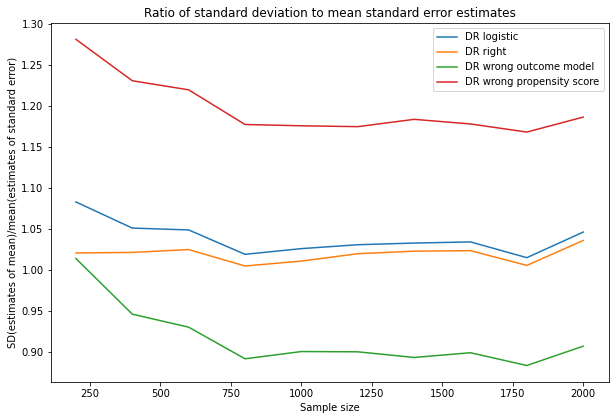
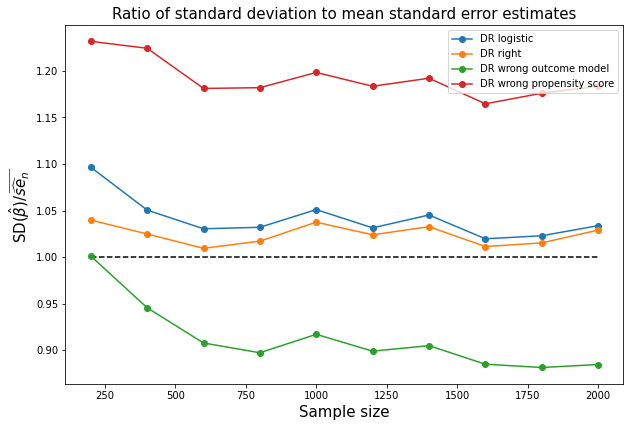
Modifying plots of parametric settings; modifying code for random forest

diff --git a/randomforest_DR.py b/randomforest_DR.py
@@ -22,257 +22,17 @@ Y =np.random.binomial(1, expit(0.2*A-W1 + 2*np.multiply(W1,W2)), 1000000)
 
 B_true = np.mean(expit(0.2-W1+ 2*np.multiply(W1,W2)))
 
-'''
-def RF_crossval(Xtrain, ytrain, Xtest):
-    skf = StratifiedKFold(n_splits=5, shuffle = True, random_state = 999)
-    
-    #Fit it to the train set
-    cv=skf.split(Xtrain, ytrain)
-    
-    # Choose the values of the number of decision trees, their depth and 
-    # the maximum number of descriptors (features) randomly chosen at each split that I want to test out with GridSearchCV
-    n_estimators = np.arange(100,1000,100)
-    max_depth = np.arange(10,30,5)
-    max_features = [2]
-    
-    # I summarise these values into a grid
-    hyperF = dict(n_estimators = n_estimators, max_depth = max_depth,  
-                  max_features = max_features)
-    
-    # Set GridSearch CV with model to tune as RFC, grid of hyperparameters, cross validation method as
-    # stratified K fold, and the scoring method as the  the accuracy of your validation predictions
-    gridF = GridSearchCV(RandomForestClassifier(), hyperF, cv = cv, scoring = 'accuracy', verbose = 1, 
-                          n_jobs = -1)
-    gridF.fit(Xtrain, ytrain)
-    output =  gridF.predict_proba(Xtest)[:,1]
-    output[np.abs(output) < 0.000001] = 0.000001
-    return output
-
-
-def DR_logit_forest_ps(Y, W, A, n):
-    W0 = 1.0*W
-    W0[:,1] = np.multiply(W0[:,0],W0[:,1])
-    
-
-    X_train_ps, _, y_train_ps, _ = train_test_split(W0,A)
-
-    
-    ps = RF_crossval(X_train_ps,y_train_ps,W0)
-    
-    o_r = LogisticRegression().fit(W0[A==1,:],Y[A==1]).predict_proba(W0)[:, 1]
-    
-    DR = np.mean(A*Y*(1/ps)
-                   + (np.ones(n)-A*(1/ps))*o_r)
-    se = np.sqrt(np.sum(np.square(A*(Y-o_r)*(1/ps)+o_r - DR*np.ones(n))))/n
-    return DR, se
-
-def DR_logit_forest_om(Y, W, A, n):
-    W0 = 1.0*W
-    W0[:,1] = np.multiply(W0[:,0],W0[:,1])
-    
-    X_train_om, _, y_train_om, _ = train_test_split(W0[A==1],Y[A==1])
-
-    
-    ps = LogisticRegression().fit(W0, A).predict_proba(W0)[:,1]
-    
-    o_r = RF_crossval(X_train_om,y_train_om,W0)
-    
-    DR = np.mean(A*Y*(1/ps)
-                   + (np.ones(n)-A*(1/ps))*o_r)
-    se = np.sqrt(np.sum(np.square(A*(Y-o_r)*(1/ps)+o_r - DR*np.ones(n))))/n
-    return DR, se
-
-def DR_right(Y,W,A, n):
-    ps = expit(-W[:,0] + 2*np.multiply(W[:,0],W[:,1]))
-    o_r = expit(0.2-W[:,0]+ 2*np.multiply(W[:,0],W[:,1]))
-    
-    DR = np.mean(A*Y*(1/ps)
-                   + (np.ones(n)-A*(1/ps))*o_r)
-    se = np.sqrt(np.sum(np.square(A*(Y-o_r)*(1/ps)+o_r - DR*np.ones(n))))/n
-    return DR, se
-
-def DR_forest_right(Y, W, A, n):
-    W0 = 1.0*W
-    W0[:,1] = np.multiply(W0[:,0],W0[:,1])
-    
-
-    X_train_ps, _, y_train_ps, _ = train_test_split(W0,A)
-
-    ps = RF_crossval(X_train_ps,y_train_ps,W0)
-    
-    X_train_om, _, y_train_om, _ = train_test_split(W0[A==1],Y[A==1])
-    o_r = RF_crossval(X_train_om,y_train_om,W0)
-    
-    DR = np.mean(A*Y*(1/ps)
-                   + (np.ones(n)-A*(1/ps))*o_r)
-    se = np.sqrt(np.sum(np.square(A*(Y-o_r)*(1/ps)+o_r - DR*np.ones(n))))/n
-    return DR, se
-
-def DR_wrong_om(Y, W, A, n):
-    W0 = 1.0*W
-    o_r = LogisticRegression().fit(W0[A==1,:],Y[A==1]).predict_proba(W0)[:, 1]
-    
-    W0[:,1] = np.multiply(W0[:,0],W0[:,1])
-    
-    X_train_ps, _, y_train_ps, _ = train_test_split(W0,A)
-
-    ps = RF_crossval(X_train_ps,y_train_ps,W0)
-    DR = np.mean(A*Y*(1/ps)
-                   + (np.ones(n)-A*(1/ps))*o_r)
-    se = np.sqrt(np.sum(np.square(A*(Y-o_r)*(1/ps)+o_r - DR*np.ones(n))))/n
-    return DR, se
-
-def DR_wrong_ps(Y, W, A, n):
-    W0 = 1.0*W
-    ps = LogisticRegression().fit(W0, A).predict_proba(W0)[:, 1]
-    
-    W0[:,1] = np.multiply(W0[:,0],W0[:,1])
-    X_train_om, _, y_train_om, _ = train_test_split(W0[A==1],Y[A==1])
-    o_r = RF_crossval(X_train_om,y_train_om,W0)
-    
-    DR = np.mean(A*Y*(1/ps)
-                   + (np.ones(n)-A*(1/ps))*o_r)
-    se = np.sqrt(np.sum(np.square(A*(Y-o_r)*(1/ps)+o_r - DR*np.ones(n))))/n
-    return DR, se
-
-def DR_forest_wrong_om(Y, W, A, n):
-    W0 = 1.0*W
-    X_train_om, _, y_train_om, _ = train_test_split(W0[A==1],Y[A==1])
-    o_r = RF_crossval(X_train_om,y_train_om,W0)
-    
-    W0[:,1] = np.multiply(W0[:,0],W0[:,1])
-    X_train_ps, _, y_train_ps, _ = train_test_split(W0,A)
-    
-    ps = RF_crossval(X_train_ps,y_train_ps,W0)
-    
-    
-    DR = np.mean(A*Y*(1/ps)
-                   + (np.ones(n)-A*(1/ps))*o_r)
-    se = np.sqrt(np.sum(np.square(A*(Y-o_r)*(1/ps)+o_r - DR*np.ones(n))))/n
-    return DR, se
-
-def DR_forest_wrong_ps(Y, W, A, n):
-    W0 = 1.0*W
-    
-
-    X_train_ps, _, y_train_ps, _ = train_test_split(W0,A)
-
-    ps = RF_crossval(X_train_ps,y_train_ps,W0)
-    
-    W0[:,1] = np.multiply(W0[:,0],W0[:,1])
-   
-    X_train_om, _, y_train_om, _ = train_test_split(W0[A==1],Y[A==1])
-    
-    o_r = RF_crossval(X_train_om,y_train_om,W0)
-    
-    DR = np.mean(A*Y*(1/ps)
-                   + (np.ones(n)-A*(1/ps))*o_r)
-    se = np.sqrt(np.sum(np.square(A*(Y-o_r)*(1/ps)+o_r - DR*np.ones(n))))/n
-    return DR, se
-
-def DR_forest_wrong(Y, W, A, n):
-    W0 = 1.0*W
-    
-
-    X_train_ps, _, y_train_ps, _ = train_test_split(W0,A)
-
-    ps = RF_crossval(X_train_ps,y_train_ps,W0)
-    
-   
-    X_train_om, _, y_train_om, _ = train_test_split(W0[A==1],Y[A==1])
-
-    o_r = RF_crossval(X_train_om,y_train_om,W0)
-
-    DR = np.mean(A*Y*(1/ps)
-                   + (np.ones(n)-A*(1/ps))*o_r)
-    se = np.sqrt(np.sum(np.square(A*(Y-o_r)*(1/ps)+o_r - DR*np.ones(n))))/n
-    return DR, se
-
-def DR_estimator(Y,W,A,ps,om,n):
-    DR = np.mean(A*Y*(1/ps)
-                   + (np.ones(n)-A*(1/ps))*om)
-    se = np.sqrt(np.sum(np.square(A*(Y-om)*(1/ps)+om - DR*np.ones(n))))/n
-    return DR, se
-'''
-
-N = list(i*200 for i in range(1,6))
-iters = 500
+iters = 2500
+N = [200*i for i in range(1,11)]
 
 estimates = np.zeros((9,iters,len(N)))
-CI = np.zeros((9,iters,len(N)))
-SEs = np.zeros((9,iters,len(N)))
-t = time.time()
-for i in range(iters): 
-    print('Iteration ' + str(i))
-    for j in range(len(N)):
-        W1 = np.random.uniform(-2,2,N[j])
-        W2 = np.random.binomial(1,0.5,N[j])
-        A = 1.0*np.random.binomial(1, expit(-W1 + 2*np.multiply(W1,W2)), N[j])
-        Y = 1.0*np.random.binomial(1, expit(0.2*A-W1 + 2*np.multiply(W1,W2)), N[j])
-        W = np.array([W1,W2]).T
-        
-        W_r = 1.0*W
-        W_r[:,1] = W1*W2
-        
-        ps_log = LogisticRegression().fit(W_r,A).predict_proba(W_r)[:,1]
-        ps_f = RF_crossval(W_r, A, W_r)
-        ps_w_log = LogisticRegression().fit(W,A).predict_proba(W)[:,1]
-        ps_w_f = RF_crossval(W, A, W)
-        ps_r = expit(-W1 + 2*np.multiply(W1,W2))
-        
-        om_log = LogisticRegression().fit(W_r[A==1],Y[A==1]).predict_proba(W_r)[:,1]
-        om_f = RF_crossval(W_r[A==1], Y[A==1], W_r)
-        om_w_log = LogisticRegression().fit(W[A==1],Y[A==1]).predict_proba(W)[:,1]
-        om_w_f = RF_crossval(W[A==1],Y[A==1], W)
-        om_r = expit(0.2-W1 + 2*np.multiply(W1,W2))
-        
-        
-        DR_l_f_om, se_l_f_om = DR_estimator(Y, W, A).fit_regression(ps = ps_log,om = om_f).estimate()
-        DR_l_f_ps, se_l_f_ps =  DR_estimator(Y, W, A).fit_regression(ps = ps_f,om = om_log).estimate()
-        DR_f_r, se_f_r = DR_estimator(Y, W, A).fit_regression(ps = ps_f,om = om_f).estimate()
-        DR_om, se_om = DR_estimator(Y, W, A).fit_regression(ps = ps_f,om = om_w_log).estimate()
-        DR_ps, se_ps = DR_estimator(Y, W, A).fit_regression(ps = ps_w_log,om = om_f).estimate()
-        DR_f_om, se_f_om = DR_estimator(Y, W, A).fit_regression(ps = ps_f,om = om_w_f).estimate()
-        DR_f_ps, se_f_ps = DR_estimator(Y, W, A).fit_regression(ps = ps_w_f,om = om_f).estimate()
-        DR_f_w, se_f_w = DR_estimator(Y, W, A).fit_regression(ps = ps_w_f,om = om_w_f).estimate()
-        DR_r, se_r = DR_estimator(Y, W, A).fit_regression(ps = ps_r,om = om_r).estimate()
-        
-        estimates[0,i,j] = DR_l_f_om
-        estimates[1,i,j] = DR_l_f_ps
-        estimates[2,i,j] = DR_f_r
-        estimates[3,i,j] = DR_om
-        estimates[4,i,j] = DR_ps
-        estimates[5,i,j] = DR_f_om
-        estimates[6,i,j] = DR_f_ps
-        estimates[7,i,j] = DR_f_w
-        estimates[8,i,j] = DR_r
-        
-        SEs[0,i,j] = se_l_f_om
-        SEs[1,i,j] = se_l_f_ps
-        SEs[2,i,j] = se_f_r 
-        SEs[3,i,j] = se_om
-        SEs[4,i,j] = se_ps
-        SEs[5,i,j] = se_f_om
-        SEs[6,i,j] = se_f_ps
-        SEs[7,i,j] = se_f_w
-        SEs[8,i,j] = se_r
-        
-        tval = 1.96
-        
-        for k in range(9):
-            if estimates[k,i,j] - tval*SEs[k,i,j] <= B_true <= estimates[k,i,j] + tval*SEs[k,i,j]:
-                CI[k,i,j] = 1
-            else: 
-                CI[k,i,j] = 0
-print('Computation timne: ' + str(time.time() - t))
-       
-np.save('estimates_RF.npy',estimates)
-np.save('CI_RF.npy', CI)
-np.save('SEs_RF.npy', SEs)
+CI = 1.0*estimates
+SEs = 1.0*CI
 
-estimates = np.load('estimates_RF.npy')
-CI = np.load('CI_RF.npy')
-SEs = np.load ('SEs_RF.npy')
+for i in range(5):
+    estimates[:,:,i] = np.load('estimates_RF'+ str(N[i]) + '.npy')
+    CI[:,:,i] = np.load('CI_RF'+ str(N[i]) + '.npy')
+    SEs[:,:,i] = np.load('SEs_RF'+ str(N[i]) + '.npy')
    
 bias = np.zeros((9,len(N)))       
 for i in range(9):
@@ -326,3 +86,12 @@ plt.ylabel('SD(estimates of mean)/mean(estimates of standard error)')
 plt.title('Ratio of standard deviation to mean standard error estimates')
 plt.show()
 
+plt.figure(figsize = (10,6.6))
+for i in range(9):
+    plt.plot(N, np.multiply(np.sqrt(N),bias[i,:]), label = labels[i], marker = 'o')
+plt.legend()
+plt.hlines(0, N[0], N[-1], linestyles = 'dashed', label = '95% goal')
+plt.xlabel('Sample size')
+plt.ylabel('Bias')
+plt.title('sqrt(n)*bias convergence of various DR estimators')
+plt.show()

diff --git a/parametric_DR.py b/parametric_DR.py
@@ -132,36 +132,50 @@ ratio_wrong_ps = sd_wrong_ps/np.mean(SEs[3,:,:], axis = 0)
 
 
 plt.figure(figsize = (10,6.6))
-plt.plot(N, bias_para, label = 'DR logistic')
-plt.plot(N,bias_right, label = 'DR right models')
-plt.plot(N, bias_wrong_om, label = 'DR wrong outcome model')
-plt.plot(N,bias_wrong_ps, label =  'DR wrong propensity score')
+plt.plot(N, bias_para, label = 'DR logistic', marker = 'o')
+plt.plot(N,bias_right, label = 'DR right models', marker = 'o')
+plt.plot(N, bias_wrong_om, label = 'DR wrong outcome model', marker = 'o')
+plt.plot(N,bias_wrong_ps, label =  'DR wrong propensity score', marker = 'o')
 plt.legend()
-plt.hlines(0, 200, 1000, linestyles = 'dashed', label = '95% goal')
-plt.xlabel('Sample size')
-plt.ylabel('Bias')
-plt.title('Emperial bias convergence of various DR estimators')
+plt.hlines(0, 200, 2000, linestyles = 'dashed')
+plt.xlabel('Sample size', fontsize = 15)
+plt.ylabel('Bias', fontsize = 15)
+plt.title('Emperial bias convergence of various DR estimators', fontsize = 15)
 plt.show()
 
 plt.figure(figsize = (10,6.6))
-plt.title('Coverage of 95% confidence intervals')
-plt.plot(N,np.mean(CI[0,:,:], axis = 0), label = 'DR logistic')
-plt.plot(N,np.mean(CI[1,:,:], axis = 0), label = 'DR right')
-plt.plot(N,np.mean(CI[2,:,:], axis = 0), label = 'DR wrong outcome model')
-plt.plot(N,np.mean(CI[3,:,:], axis = 0), label = 'DR wrong propensity score')
+plt.title('Coverage of 95% confidence intervals', fontsize = 15)
+plt.plot(N,np.mean(CI[0,:,:], axis = 0), label = 'DR logistic', marker = 'o')
+plt.plot(N,np.mean(CI[1,:,:], axis = 0), label = 'DR right', marker = 'o')
+plt.plot(N,np.mean(CI[2,:,:], axis = 0), label = 'DR wrong outcome model',
+         marker = 'o')
+plt.plot(N,np.mean(CI[3,:,:], axis = 0), label = 'DR wrong propensity score',
+         marker = 'o')
 plt.hlines(0.95, 200, 2000, linestyles = 'dashed', label = '95% goal')
-plt.xlabel('Sample size')
+plt.xlabel('Sample size', fontsize = 15)
 plt.legend()
 plt.show()
 
 plt.figure(figsize = (10,6.6))
-plt.plot(N, ratio_para, label = 'DR logistic')
-plt.plot(N, ratio_r, label = 'DR right')
-plt.plot(N, ratio_wrong_om, label = 'DR wrong outcome model')
-plt.plot(N, ratio_wrong_ps, label = 'DR wrong propensity score')
+plt.plot(N, ratio_para, label = 'DR logistic', marker = 'o')
+plt.plot(N, ratio_r, label = 'DR right', marker = 'o')
+plt.plot(N, ratio_wrong_om, label = 'DR wrong outcome model', marker = 'o')
+plt.plot(N, ratio_wrong_ps, label = 'DR wrong propensity score', marker = 'o')
 plt.legend()
-plt.xlabel('Sample size')
-plt.ylabel('SD(estimates of mean)/mean(estimates of standard error)')
-plt.title('Ratio of standard deviation to mean standard error estimates')
+plt.hlines(1, 200, 2000, linestyles = 'dashed')
+plt.xlabel('Sample size', fontsize = 15)
+plt.ylabel(r'SD($ \hat \beta )/ \widebar{\widehat{se}_{n}}$', fontsize = 15)
+plt.title('Ratio of standard deviation to mean standard error estimates', fontsize = 15)
 plt.show()
 
+plt.figure(figsize = (10,6.6))
+plt.plot(N, np.multiply(np.sqrt(N),bias_para), label = 'DR logistic', marker = 'o')
+plt.plot(N,np.multiply(np.sqrt(N),bias_right), label = 'DR right models', marker = 'o')
+plt.plot(N, np.multiply(np.sqrt(N),bias_wrong_om), label = 'DR wrong outcome model', marker = 'o')
+plt.plot(N,np.multiply(np.sqrt(N),bias_wrong_ps), label =  'DR wrong propensity score', marker = 'o')
+plt.legend()
+plt.hlines(0, 200, 2000, linestyles = 'dashed')
+plt.xlabel('Sample size', fontsize = 15)
+plt.ylabel('$\sqrt{N}$Bias', fontsize = 15)
+plt.title('$\sqrt{N}$bias convergence of various DR estimators', fontsize = 15)
+plt.show()
